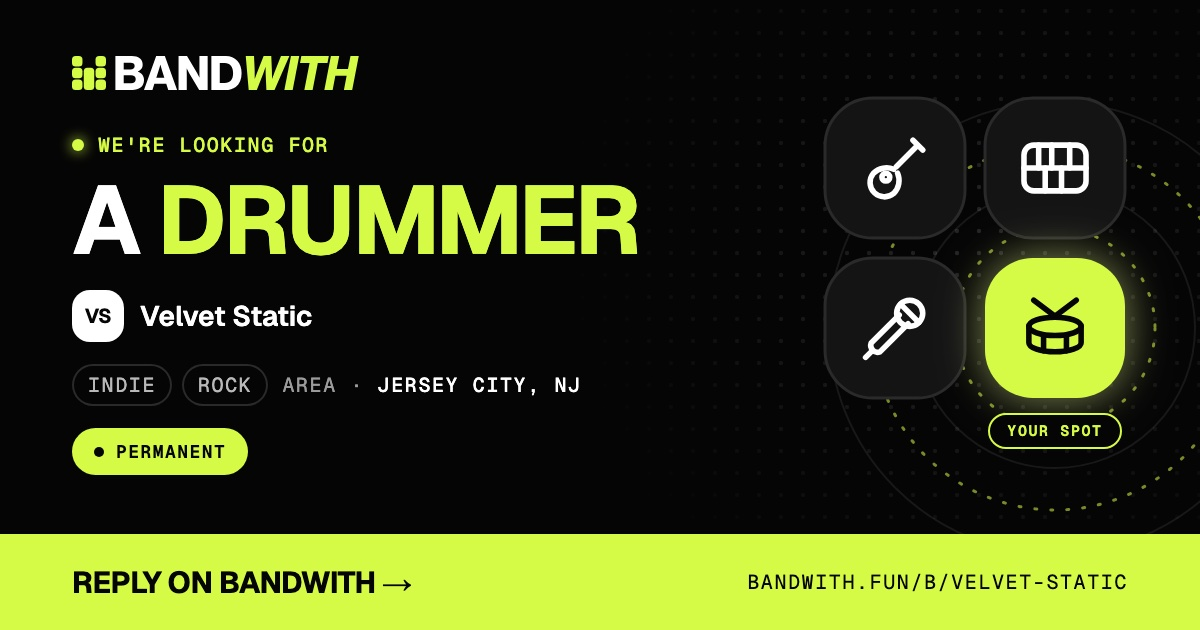
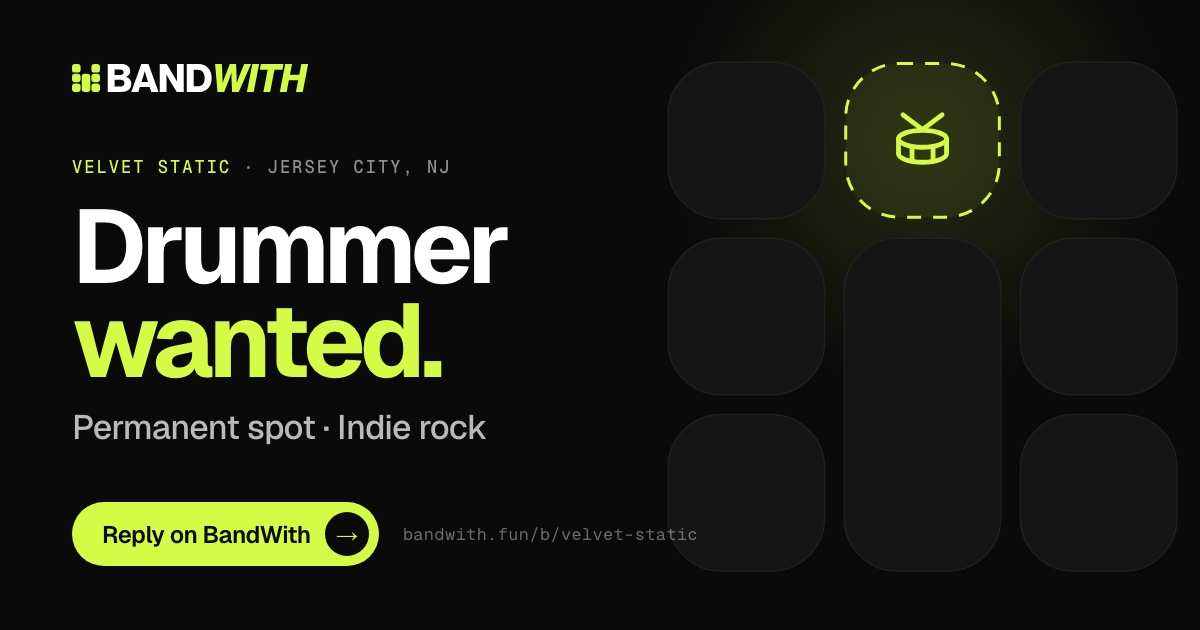
docs(plans): community share cards v2 - clean, one focal point (the mark's empty cell is the spot), real button

diff --git a/docs/plans/community.md b/docs/plans/community.md
@@ -42,7 +42,7 @@ Contents
   - honest empty states;
   - saved searches with alerts;
   - growth from deputy requests that bands already send.
-- **Branded share cards.** Every showcase and ad shared outside BandWith carries a recognisable BandWith card: a dynamic link preview, plus Story and square images to download. The cards show only public fields and always carry a "Create your showcase" or "Reply on BandWith" call to action (§8).
+- **Branded share cards.** Every showcase and ad shared outside BandWith carries a recognisable BandWith card: a dynamic link preview, plus Story and square images to download. The cards show only public fields and always carry a clear button: "View showcase" or "Reply on BandWith" (§8).
 - **The existing direct deputy invite does not change.** It is the claim link sent by WhatsApp, SMS or email to someone the band knows. The community is one more source of deputies. The only change to the invite is an optional one-line "create your showcase" hint.
 - Members are 18 or older. Locations are approximate, and nobody's contact details are ever shown. Profiles are private until the person turns visibility on.
 
@@ -63,7 +63,8 @@ Contents
 | 11 | Branded sharing | "possiamo creare un design branded di bandwith customizzato (tipo social thumbnail picture per i link dei siti web) cosi da spingere il brand e renderlo riconoscibile?" | **Yes**: dynamic BandWith share cards for showcases and ads, link previews + Story/square images (§8). |
 | 12 | Card font (2026-11-21) | "ok usa Geist per le card dinamiche" | Geist + Geist Mono for all community cards (§8.5). |
 | 13 | Examples (2026-11-21) | "io vivo nella zona di new york e tu continui a usare riferimenti italiani" | Examples, demo data and units start from the New York area and English (miles in the US); other markets are translations, not the default. |
-| 14 | Card visuals (2026-11-21) | "non usiamo foto di background: usa colore e illustrazioni cool, a tema, branded" | No photos on cards; colour + an illustration system built from the BandWith mark (§8.6). |
+| 14 | Card visuals (2026-11-21) | "non usiamo foto di background: usa colore e illustrazioni cool, a tema, branded" | No photos on cards; colour + the BandWith mark (§8.6). |
+| 15 | Card style (2026-11-21) | "le grafiche sono troppo incasinate e da principiante...deve essere figa, clean e moderna e far venire voglia di cliccare" | One focal point: the mark with its empty cell as "the spot", big type, a real button (§8.6). |
 
 ## 3. What exists today (the plan builds on it)
 
@@ -295,7 +296,7 @@ Every shared link is an ad for BandWith. The card is what people see in WhatsApp
 
 ### 8.1 Mockups
 
-These use fake demo data in English: the site's persona Leo M. (Brooklyn, NY) and the demo band Velvet Static (Jersey City, NJ). They are rendered with the #248 share-card style, in Geist (§8.5), with no photos: colour and branded illustrations only (§8.6).
+These use fake demo data in English: the site's persona Leo M. (Brooklyn, NY) and the demo band Velvet Static (Jersey City, NJ). Second version after the owner's feedback: clean, one focal point (the BandWith mark, its empty cell = "the spot"), Geist (§8.5), no photos (§8.6).
 
 | Musician showcase, link preview 1200×630 | Band ad, link preview 1200×630 |
 |---|---|
@@ -307,8 +308,8 @@ Showcase as a Story, 1080×1920: [`community/03-showcase-story-1080x1920.jpg`](c
 
 | Card | Shared from | Link | CTA on the card |
 |---|---|---|---|
-| **Musician showcase** | the showcase (app) and its public page | `bandwith.fun/m/<handle>` | "Create your showcase on BandWith" |
-| **Band ad** ("We're looking for X") | the ad (app), Find a deputy / members with no results, the public ad page | `bandwith.fun/b/<band-slug>` (the band's open ads; `?a=<code>` picks one) | "Reply on BandWith" |
+| **Musician showcase** | the showcase (app) and its public page | `bandwith.fun/m/<handle>` | "View showcase →" (the page then offers "Create your own showcase") |
+| **Band ad** ("We're looking for X") | the ad (app), Find a deputy / members with no results, the public ad page | `bandwith.fun/b/<band-slug>` (the band's open ads; `?a=<code>` picks one) | "Reply on BandWith →" |
 | **"Found my band"** (phase 2) | offered to both people after an accepted member invite | the band's public page or the BandWith home | "Find your band on BandWith" |
 
 - A deputy request for a specific gig is private and **never** gets a card.
@@ -320,13 +321,14 @@ Showcase as a Story, 1080×1920: [`community/03-showcase-story-1080x1920.jpg`](c
 
 | Data | Showcase | Band ad | Rule |
 |---|---|---|---|
-| Display or stage name | ✓ | — | As shown on the showcase ("Leo M." by default). Long names step the font size down; two lines at most. |
-| Instruments with the instrument icons | up to 2 + "+N" | the wanted instrument, as a large icon | Canonical keys from `instruments.ts`; the icons are the site's `public/icons/instrument-*.svg` set. |
-| Genres | up to 3 | up to 3 | From the closed list, translated. |
-| City | ✓ | ✓ | The town label only. **Never a distance, a postcode or a grid cell.** |
-| Status pill | "Available for deputy work" (if on) | "Permanent" / "Deputy" / "Permanent or deputy" | |
-| Band name and logo | — | ✓ (`bands.logo_url`, initials if none) | The ad is public by the admin's choice. |
-| Short URL + BandWith logo | ✓ | ✓ | Logo always top left; URL always in the lime bar. |
+| Display or stage name | ✓ (the headline) | — | As shown on the showcase ("Leo M." by default). Long names step the font size down; two lines at most. |
+| Headline | — | "<Instrument> wanted." (the second word in lime) | Built from the wanted instrument, translated. |
+| Instruments | up to 2, as text in the sub-line ("Bass & backing vocals") | the wanted one | Canonical keys from `instruments.ts`. The **main** instrument's icon sits in the mark's spot (§8.6); icons from the app's `public/icons/instrument-*.svg` (10 instruments + "other"). |
+| Genres | up to 2, in the sub-line, only if it fits | 1, in the sub-line | From the closed list, translated. Dropped first when space is short. |
+| City | ✓ (in the small label) | ✓ (in the small label) | The town label only. **Never a distance, a postcode or a grid cell.** |
+| Status | "● Available for deputy gigs" (if on) | "Permanent spot" / "Deputy spot" / "Permanent or deputy", in the sub-line | |
+| Band name | — | ✓ (in the small label, lime) | The ad is public by the admin's choice. No band logo: it would fight the mark. |
+| Button + short URL + BandWith logo | ✓ | ✓ | Logo top left; button and URL bottom left, always in the same place. |
 
 **Never on a card:** photos (of the person or as a background; the owner decided on 2026-11-21 that cards are colour + branded illustrations only), phone, email, exact or approximate position, distance, fees, dates or free/busy, the level (it can read as a judgement), and the bands someone plays in.
 - **Why so strict:** once a card has been shared, the image stays in other people's chats and in WhatsApp's or Facebook's caches. Hiding the showcase later cannot take it back. Only fields the person already made public go on it.
@@ -375,34 +377,31 @@ Showcase as a Story, 1080×1920: [`community/03-showcase-story-1080x1920.jpg`](c
   - The font files (`.ttf` / `.woff`, since Satori does not read `.woff2`) are bundled with the function.
   - The community's static fallbacks use Geist too, so every community card looks the same. The site's page cards from #248 stay as they are.
   - The logo is an SVG, so it is unaffected.
-- **Illustrations instead of images:** the right side of every card is a vector illustration generated from the card's data (§8.6), so nothing is fetched, no photo is stored for cards, and Satori draws it as inline SVG.
+- **The mark instead of images:** the right side of every card is the BandWith mark drawn as inline SVG, with the spot and the instrument icon chosen from the card's data (§8.6). Nothing is fetched and no photo is stored.
 - **Size and speed:** under ~300 KB per PNG (WhatsApp is picky with large previews). Satori gives JPEG-like sizes with flat colours, so this is easy.
 
 ### 8.6 Brand rules (so every card is recognisable)
 
-They match the #248 site cards and the Lime/Ink rule:
+Owner feedback on 2026-11-21: the first illustrated version was "troppo incasinata e da principiante". The cards must be **clean, modern and make people want to tap**. The rules that came out of that:
 
-- Ink background (`#050505`) with the soft lime glow in the top corner.
-- **BandWith logo top left, always the same size and position.**
-- A mono label in lime with the LED dot ("● MUSICIAN SHOWCASE", "● WE'RE LOOKING FOR").
-- One big uppercase line: the name, or "A DRUMMER". On ads, the wanted instrument is in lime.
-- Instrument chips with the icons; genres as outline chips in mono.
-- One lime pill for the status.
-- **A lime bar along the bottom with the CTA on the left and the short URL on the right**, in the same place on every card. That bar is the recognisable signature.
-- **No photos, ever.** Colour and branded illustrations only (owner, 2026-11-21).
-- **The illustration system** is built from the BandWith mark's own grammar, the rounded square (corner radius ≈ a third of its side), in Lime, Ink and white:
-  - **instrument tile:** a big lime rounded square with the main instrument's icon in ink, tilted a few degrees, with a soft lime glow;
-  - **block equalizer:** columns of rounded squares rising from the CTA bar like a VU meter, the top block of each column lit, plus one empty outline block above (the "room to grow");
-  - **sound rings:** concentric circles around the tile, two of them dotted lime;
-  - **dot matrix:** a fine dot texture fading out from the illustration's centre;
-  - **lineup grid** (band ads): the band as a 2×2 grid of tiles, the instruments it has in dark tiles with white icons, and the missing one lit lime with rings and a "YOUR SPOT" label. A 3-piece looking for its 4th, or a duo looking for two (two lit tiles), reads at a glance.
-  - A second instrument (if any) is a small dark tile with a lime icon, orbiting the main one.
-- The illustration is chosen from the data (main instrument, the band's current instruments, the wanted one), so every card is different but always recognisably BandWith. Instruments without an icon use the "other" glyph.
-- No other colours, no emoji, no user-chosen themes.
-
+- **One idea per card, one focal point.** Few words, lots of empty space, no decoration that doesn't carry meaning. Out: dot textures, rings, equalizers, chip rows, full-width bars.
+- **No photos, ever.** Colour and the brand's own shape only (owner, 2026-11-21).
+- **The hero is the BandWith mark itself**, drawn large on the right, tone-on-tone (dark blocks `#151515` on Ink `#0a0a0a`, hairline edge). Its **empty top-middle cell is "the spot"**, the only coloured thing on the card:
+  - **musician showcase:** the spot is **filled lime** with the main instrument in ink. The musician completes the band.
+  - **band ad:** the spot is a **dashed lime outline** with the wanted instrument in lime. That's the place waiting to be filled.
+  - A soft lime halo behind the spot; nothing else glows.
+  - It reads as BandWith at a glance, and it tells the story without words.
+- **Type does the rest** (Geist, §8.5):
+  - a small mono label: the role or band name in lime, then the city in grey;
+  - a huge headline in sentence case with tight tracking: "Leo M." or "Drummer **wanted.**" (second word in lime);
+  - one grey sub-line: instruments, genre or spot type;
+  - for showcases, one status line with a lime dot: "Available for deputy gigs".
+- **A real button, not a banner:** a lime pill with an ink circle arrow ("View showcase →", "Reply on BandWith →"), with the short URL next to it in grey mono. It looks tappable, which is what drives clicks.
+- **Fixed layout:** logo top left; text column left; mark right (vertically centred on link previews, above the text on Stories); button bottom left. The same positions on every card, in every language.
+- **Colours:** Ink, white and greys, plus Lime for exactly three things: the spot, the label's first word and the button (plus the ad's "wanted."). No other colours, no emoji, no user-chosen themes.
 ### 8.7 Growth and measurement
 
-- **Every card has a CTA:** "Create your showcase on BandWith" on showcases, "Reply on BandWith" on ads. The public page repeats it as its only action.
+- **Every card has a button:** "View showcase" on showcases, "Reply on BandWith" on ads. On the public page, the main action is "Contact in BandWith" (showcase) or "Reply" (ad); "Create your own showcase" comes second.
 - **Shared links carry UTM tags:** `utm_source=share`, `utm_medium=<whatsapp|instagram|copy|…>` when the share sheet tells us, and `utm_campaign=showcase|ad|found-band`. The page's canonical URL strips them.
 - **What we count:**
   - **shares** — a GA4 event in the app (opt-in) and on the site (consent mode, as on bandwith.fun today);
